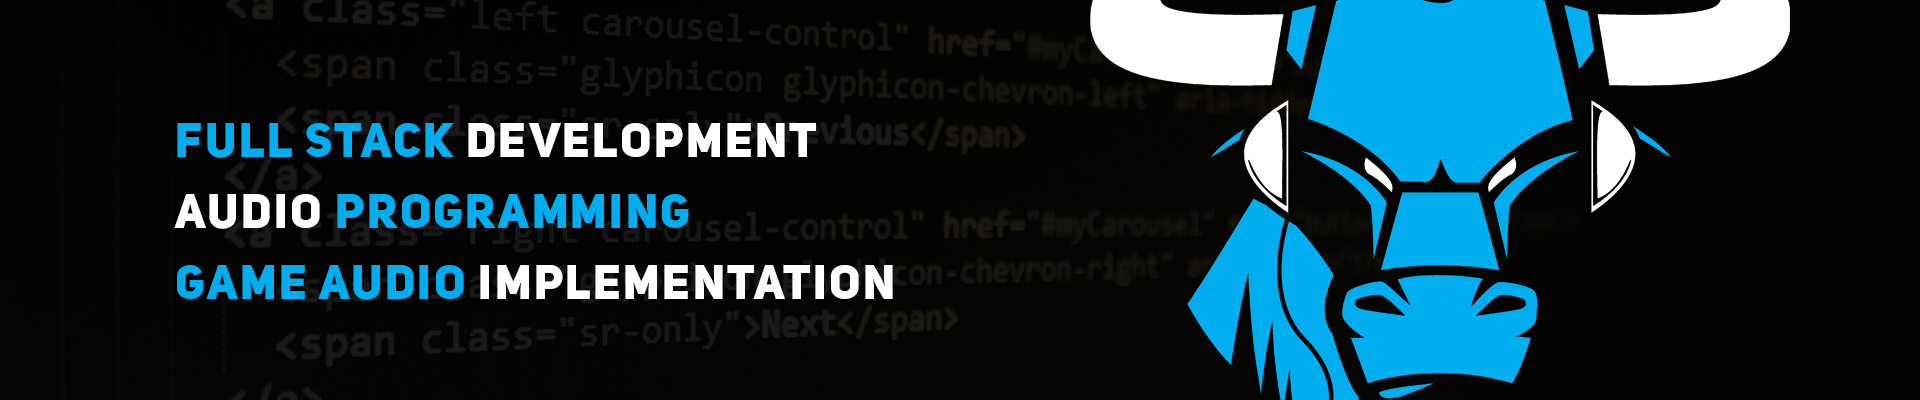
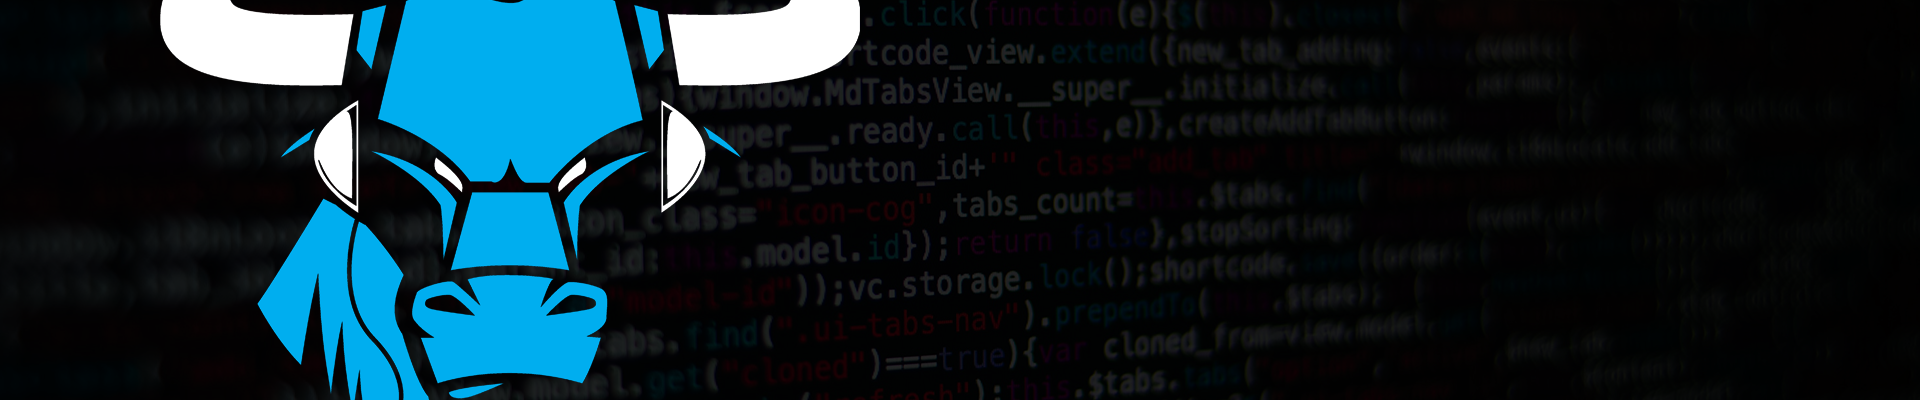
added required subtitle section per the mockup. final comments

diff --git a/index.html b/index.html
@@ -42,7 +42,11 @@
     <!-- Hero -->
     <section id="hero">
       <img src="assets/images/HeroBanner.png" alt="" />
-      <h2>Dominic Misasi</h2>
+      <div id="hero-text">
+        <h2><span class="blue-text">FULL STACK</span> DEVELOPMENT</h2>
+        <h2>AUDIO <span class="blue-text">PROGRAMMING</span></h2>
+        <h2><span class="blue-text">GAME AUDIO </span>IMPLEMENTATION</h2>
+      </div>
     </section>
 
     <!---About Me Section with image and description!-->
@@ -64,14 +68,29 @@
             After graduating college in 2016, I worked various odd jobs while
             freelancing as an audio engineer on the side. Over time my duties on
             my freelance audio work began drifting more and more into the game
-            audio field and the implementation aspect of sounds in games. Ever since, I've designed various audio systems for many projects including:
-            <ul>
-              <li>A custom real time breathing system for non player characters that adjusts a character's breathing based on external monitoring systems</li>
-              <li>A dynamic weather system including real time weather patterns and seamless transitions between weather types.</li>
-              <li>A radio audio system that generates and modulates static between stations in real time</li>
-            </ul>
+            audio field and the implementation aspect of sounds in games. Ever
+            since, I've designed various audio systems for many projects
+            including:
+          </p>
+          <ul>
+            <li>
+              A custom real time breathing system for non player characters that
+              adjusts a character's breathing based on external monitoring
+              systems
+            </li>
+            <li>
+              A dynamic weather system including real time weather patterns and
+              seamless transitions between weather types.
+            </li>
+            <li>
+              A radio audio system that generates and modulates static between
+              stations in real time
+            </li>
+          </ul>
+          <p>
             My interest in the back end of audio development would lead me down
-            the path to full stack development as a more stable career to pursue while continuing my audio work on the side.
+            the path to full stack development as a more stable career to pursue
+            while continuing my audio work on the side.
           </p>
           <h3>My Work</h3>
           <p>
@@ -91,7 +110,6 @@
       </div>
 
       <div class="section-content">
-
         <!-- SHOWCASE piece. This does not share a row with other items!-->
         <div class="showcase-item">
           <a href="https://vimeo.com/manage/videos/662102223" target="_blank">

diff --git a/assets/styles/style.css b/assets/styles/style.css
@@ -77,10 +77,10 @@ nav a:hover {
 section {
   display: flex;
   justify-content: center;
-  align-items: left;
   margin: 5% 0;
 }
 
+/* General stylings for Section headings */
 .section-heading {
   flex: 0 0 20%;
   border-right: 5px solid #00adee;
@@ -92,6 +92,7 @@ section {
   font-size: 48px;
 }
 
+/* General stylings for section content */
 .section-content {
   flex: 1 1 80%;
   padding: 5%;
@@ -110,6 +111,7 @@ section {
   line-height: 1.4;
 }
 
+/* Stylings for the social icons in case I use them elsewhere on the page */
 .social-icons {
   flex: 1 1 40%;
   padding: 0 5%;
@@ -141,27 +143,40 @@ section {
 .social-icons img {
   max-width: 50%;
 }
+
 /* BEGIN HERO SECTION */
 #hero {
   margin: 0;
+  position: relative;
 }
 
 #hero img {
   max-width: 100%;
   height: auto;
-  position: relative;
 }
-
-#hero h2 {
+/* Originally text was part of hero image, but
+    we were required to have a subtitle text based on the
+    mockup, so I recreated the text on the image in html/css
+    to match the subtitle requirement for the mockup.  I used
+    vw units for font-size in order for it to scale as it would
+    had the text been part of the image.
+  */
+#hero-text {
   position: absolute;
-  top: 40%;
-  left: 85%;
-  font-size: 36px;
+  margin: auto;
+  overflow: auto;
+  top: 25%;
+  left: 60%;
+
+  font-size: 1.5vw;
+  font-weight: bolder;
   color: white;
+}
+#hero-text span {
+  color: #00adee;
 }
 
 /* BEGIN ABOUT ME SECTION */
-
 #profile-image {
   flex: 0 0 40%;
   margin: auto;
@@ -185,7 +200,6 @@ section {
 }
 
 /* BEGIN PORTFOLIO SECTION */
-
 .hover-overlay:hover {
   background-color: #00adee;
 }
@@ -280,8 +294,6 @@ footer #contact-info {
   padding-right: 13.33%;
 }
 
-/* END FOOTER STYLING */
-
 /* MEDIA QUERIES FOR SMALLER SCREEN SIZES*/
 @media screen and (max-width: 1200px) {
   .section-heading h2 {
@@ -301,14 +313,12 @@ footer #contact-info {
 
   .portfolio-item-text h4 {
     font-size: 10px;
-
     letter-spacing: normal;
     line-height: 1.6;
   }
 
   .portfolio-item-text p {
     font-size: 6px;
-
     letter-spacing: normal;
   }
 
@@ -319,7 +329,6 @@ footer #contact-info {
 
   #showcase-text p {
     font-size: 10px;
-
     letter-spacing: normal;
   }
 }
